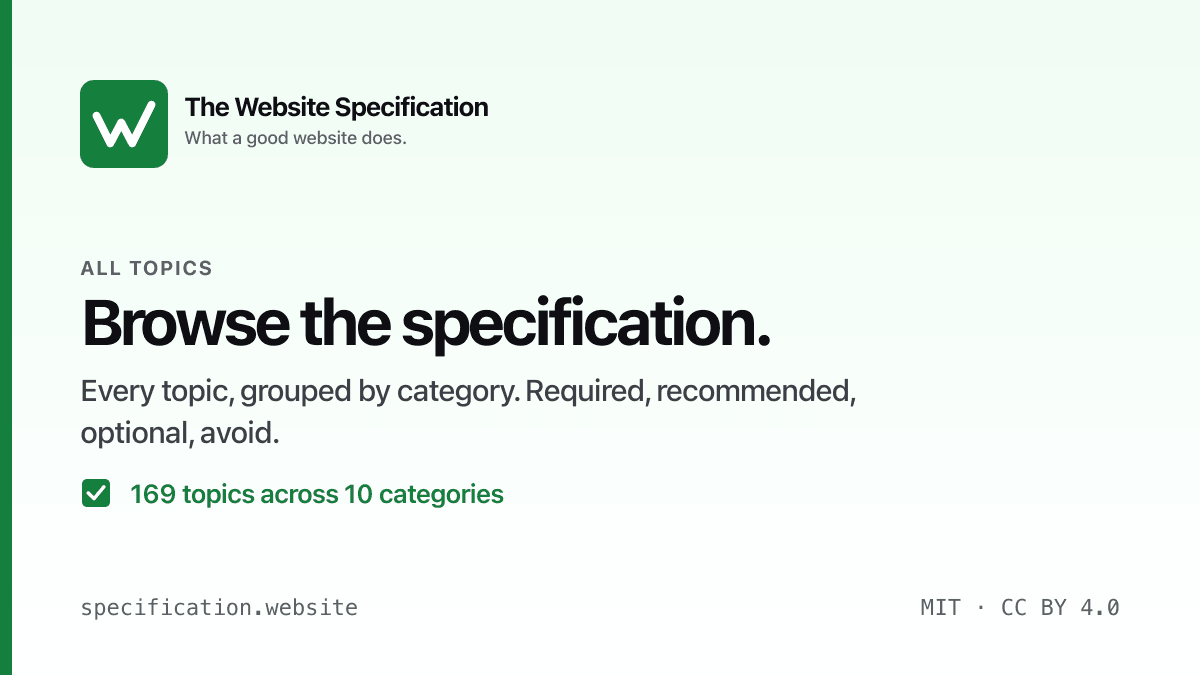
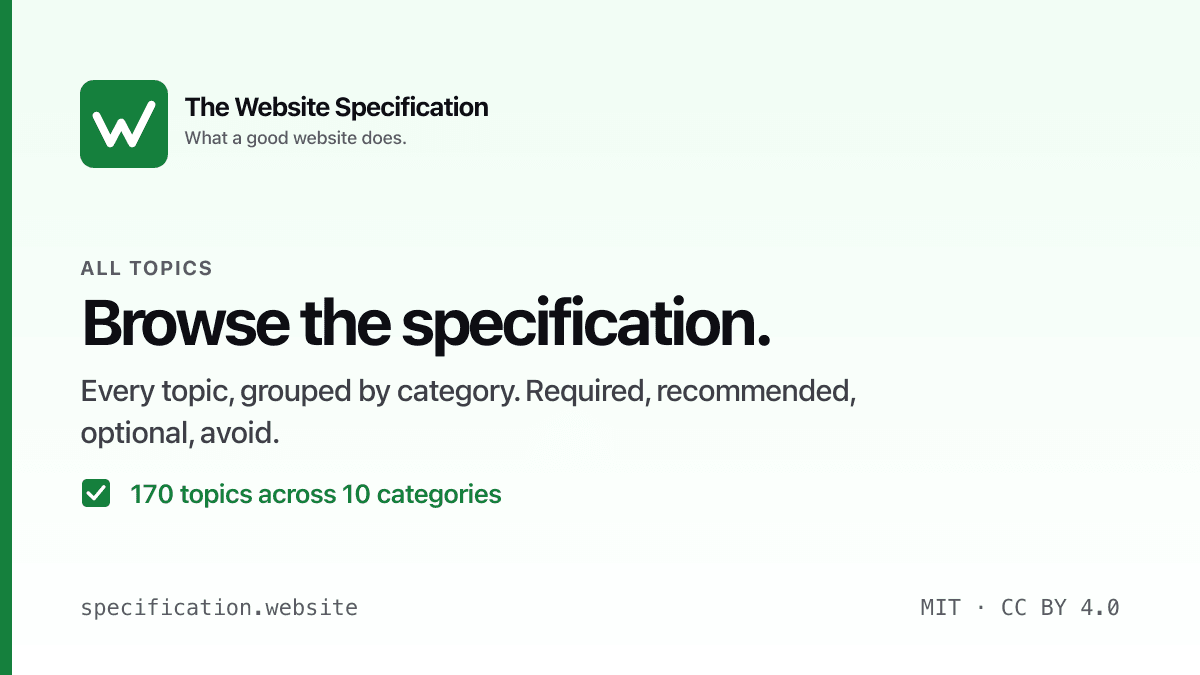
Regenerate discovery assets for combined 170-page corpus

Changed region(s): [[0.0925, 0.7156, 0.4317, 0.7467]]

diff --git a/public/.well-known/agent-skills/specification-website/SKILL.md b/public/.well-known/agent-skills/specification-website/SKILL.md
@@ -5,7 +5,7 @@ description: Query and apply The Website Specification — a platform-agnostic s
 
 # specification.website
 
-The Website Specification is a single source of truth for what a good website does. Ten categories, 169 pages, every item tagged with a status. It ships in three machine-readable forms: per-page Markdown, llms.txt / llms-full.txt, and an MCP server.
+The Website Specification is a single source of truth for what a good website does. Ten categories, 170 pages, every item tagged with a status. It ships in three machine-readable forms: per-page Markdown, llms.txt / llms-full.txt, and an MCP server.
 
 ## When to use this skill
 
